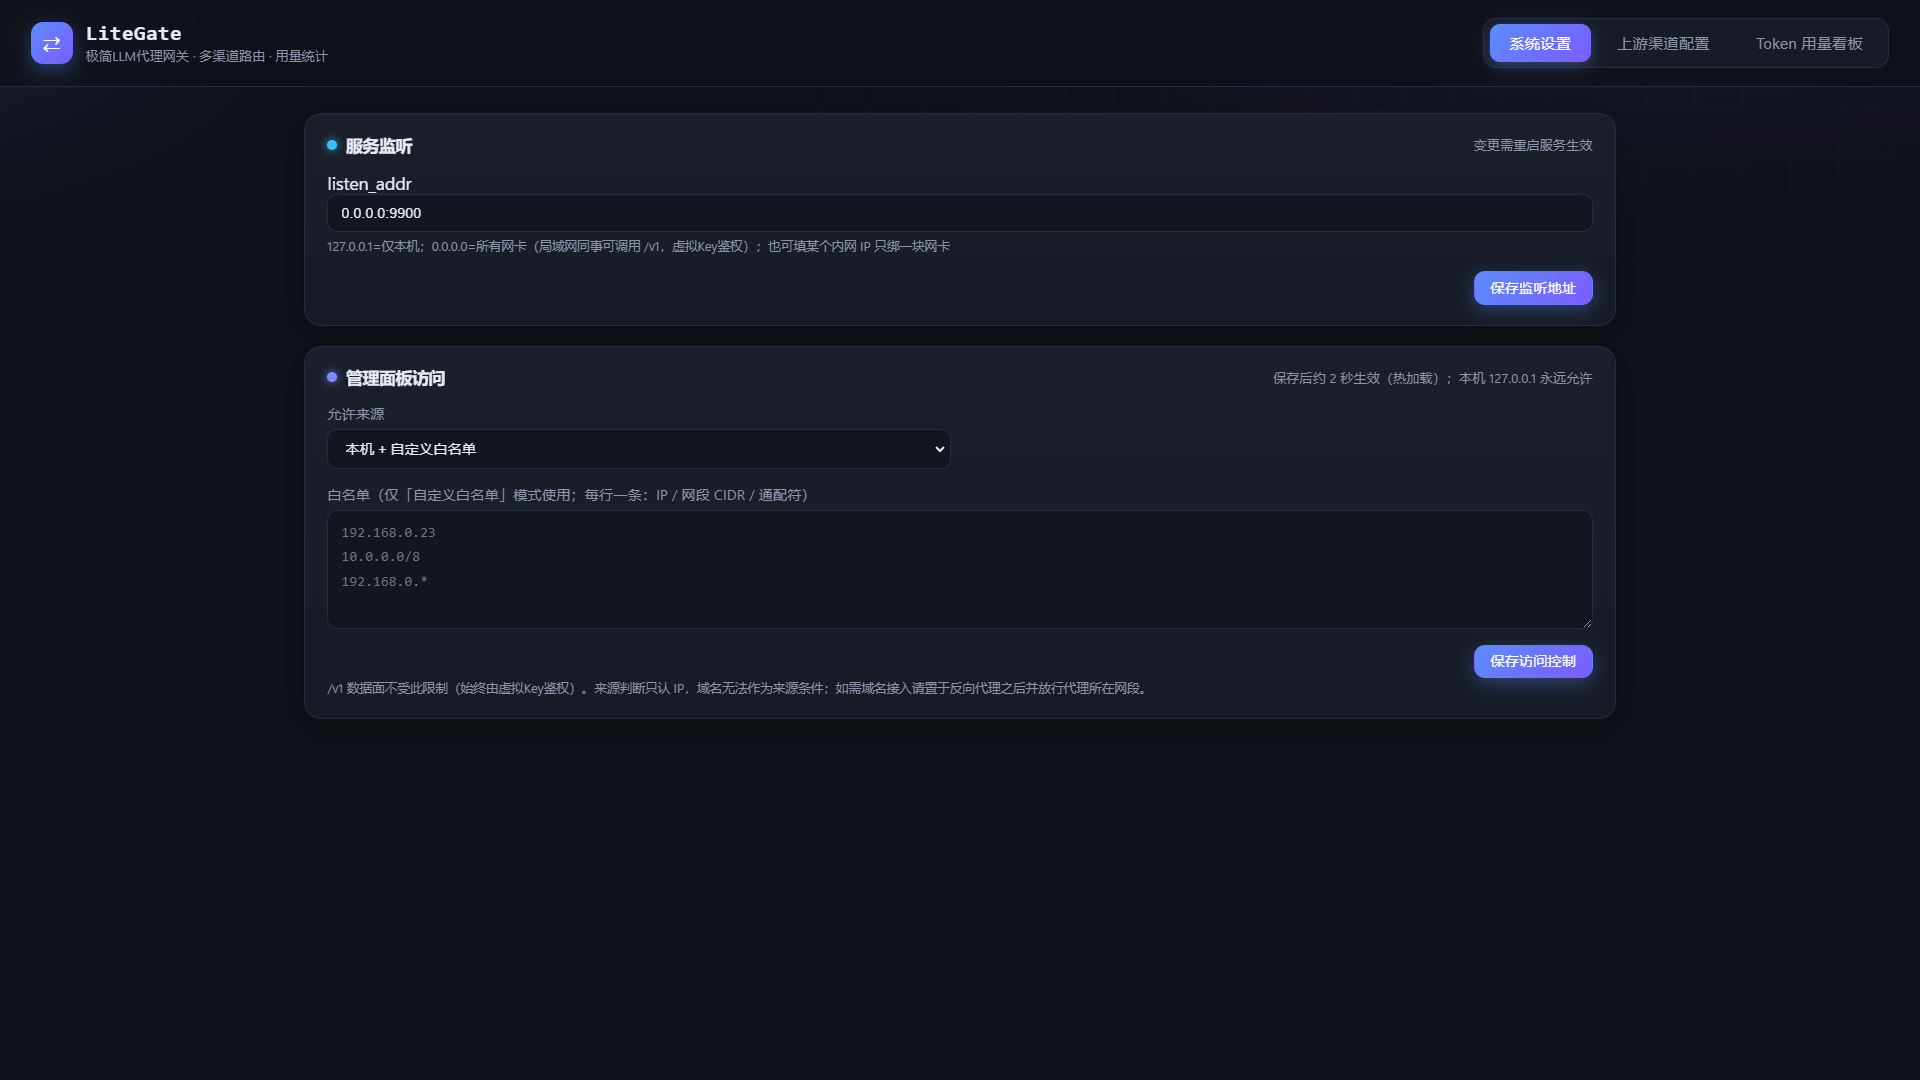
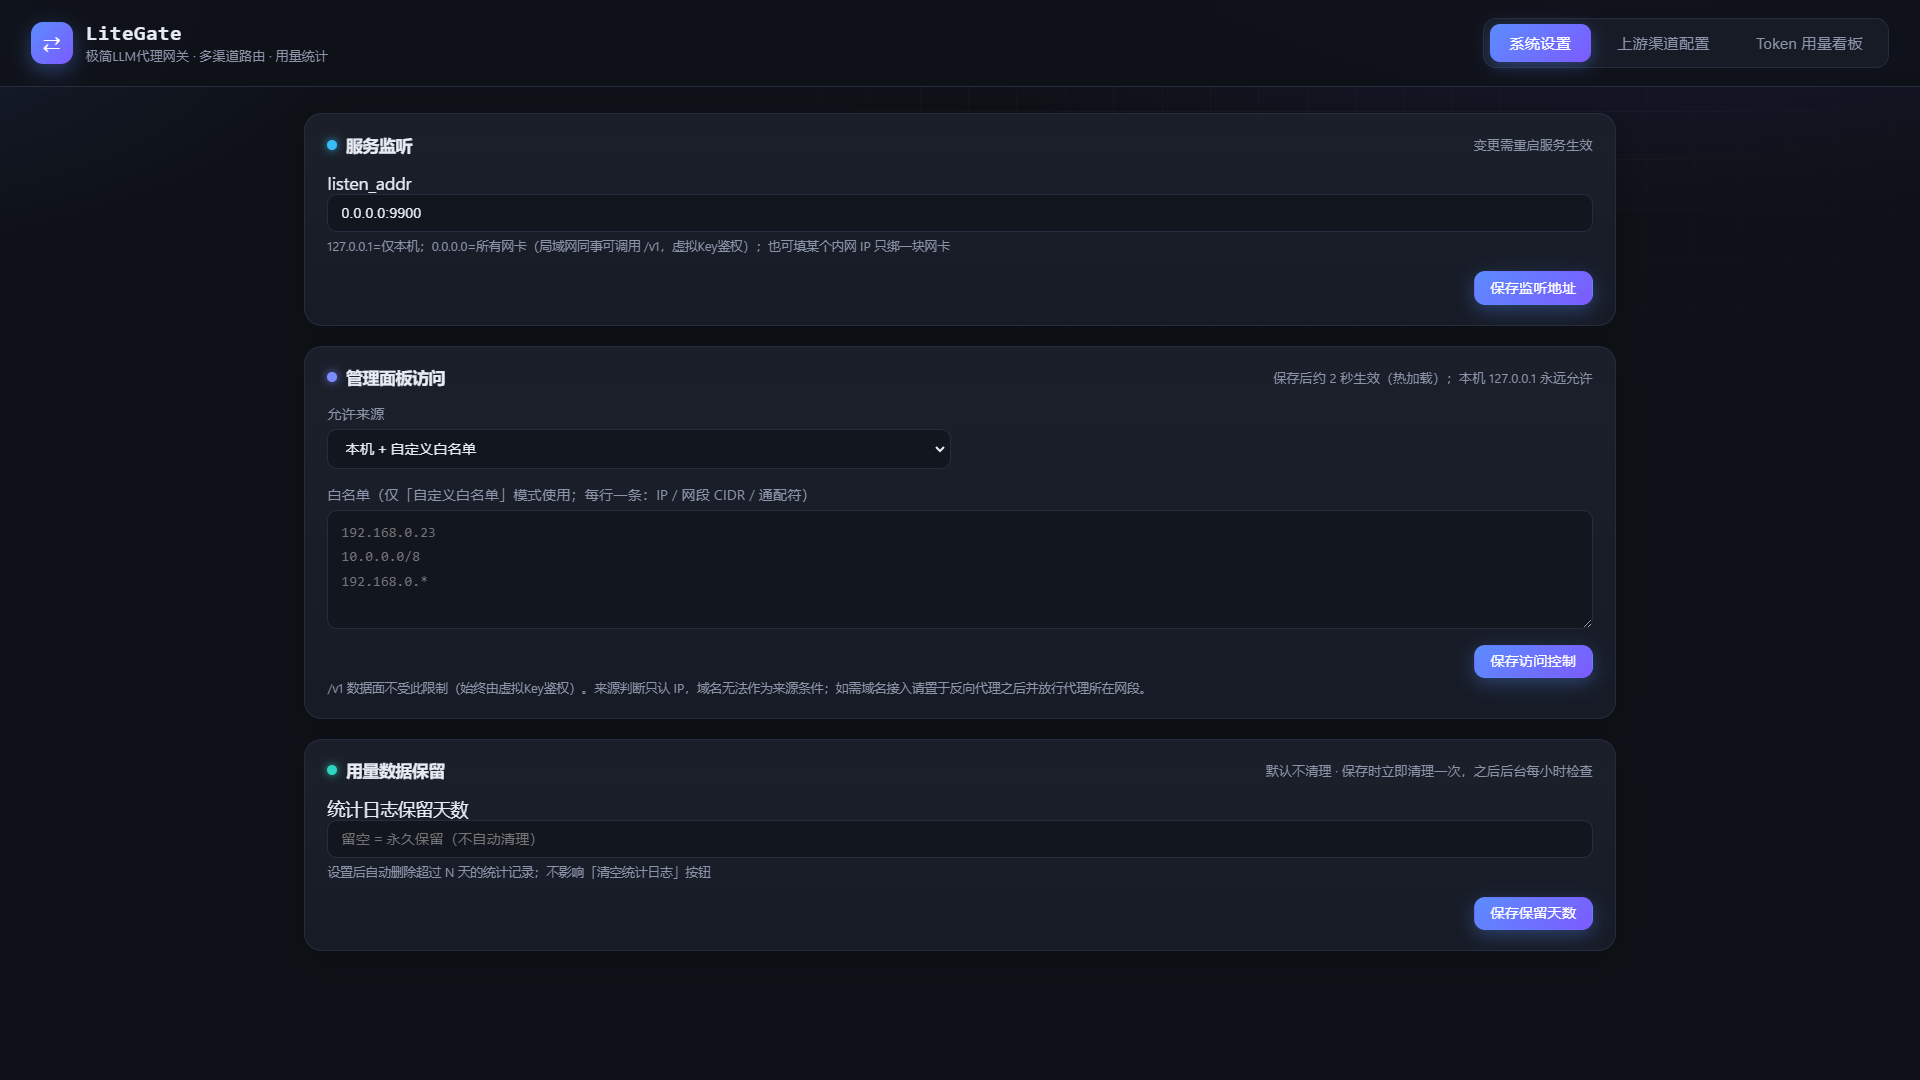
docs: 更新界面截图（新增用量明细/成本估算/保留天数设置），界面预览改为 2x2 布局

Changed region(s): [[0.1562, 0.7028, 0.375, 0.825], [0.75, 0.825, 0.8438, 0.8861], [0.6562, 0.7028, 0.8438, 0.7333]]

diff --git a/README.md b/README.md
@@ -37,11 +37,11 @@
 
 ## 界面预览
 
-| 渠道与虚拟 Key 管理 | Token 用量看板 |
+| 上游渠道配置 | Token 用量看板（含成本估算） |
 | --- | --- |
-| ![渠道及APIkey管理](docs/ui-channels-keys.png) | ![Token 用量看板](docs/ui-usage-dashboard.png) |
-
-![系统设置](docs/ui-settings.png)
+| ![上游渠道配置](docs/ui-upstreams.png) | ![用量看板](docs/ui-dashboard.png) |
+| **用量明细** | **系统设置（含用量保留天数）** |
+| ![用量明细](docs/ui-usage-logs.png) | ![系统设置](docs/ui-settings.png) |
 
 ## 特性一览
 
@@ -56,7 +56,7 @@
 - 错误：上游 4xx/5xx 报文原样透传，不做包装、不做重试降级
 - 存储：渠道配置 → 本地 YAML（热加载）；用量统计 → 单文件 SQLite，
   支持按保留天数自动清理过期记录（默认不清理）
-- Web 面板：渠道增删改查 + YAML 导入导出；看板支持筛选、三维聚合、清空日志
+- Web 面板：渠道增删改查 + YAML 导入导出；看板支持筛选、三维聚合、成本估算、清空日志与按保留天数自动清理
 
 ## 快速开始
 
